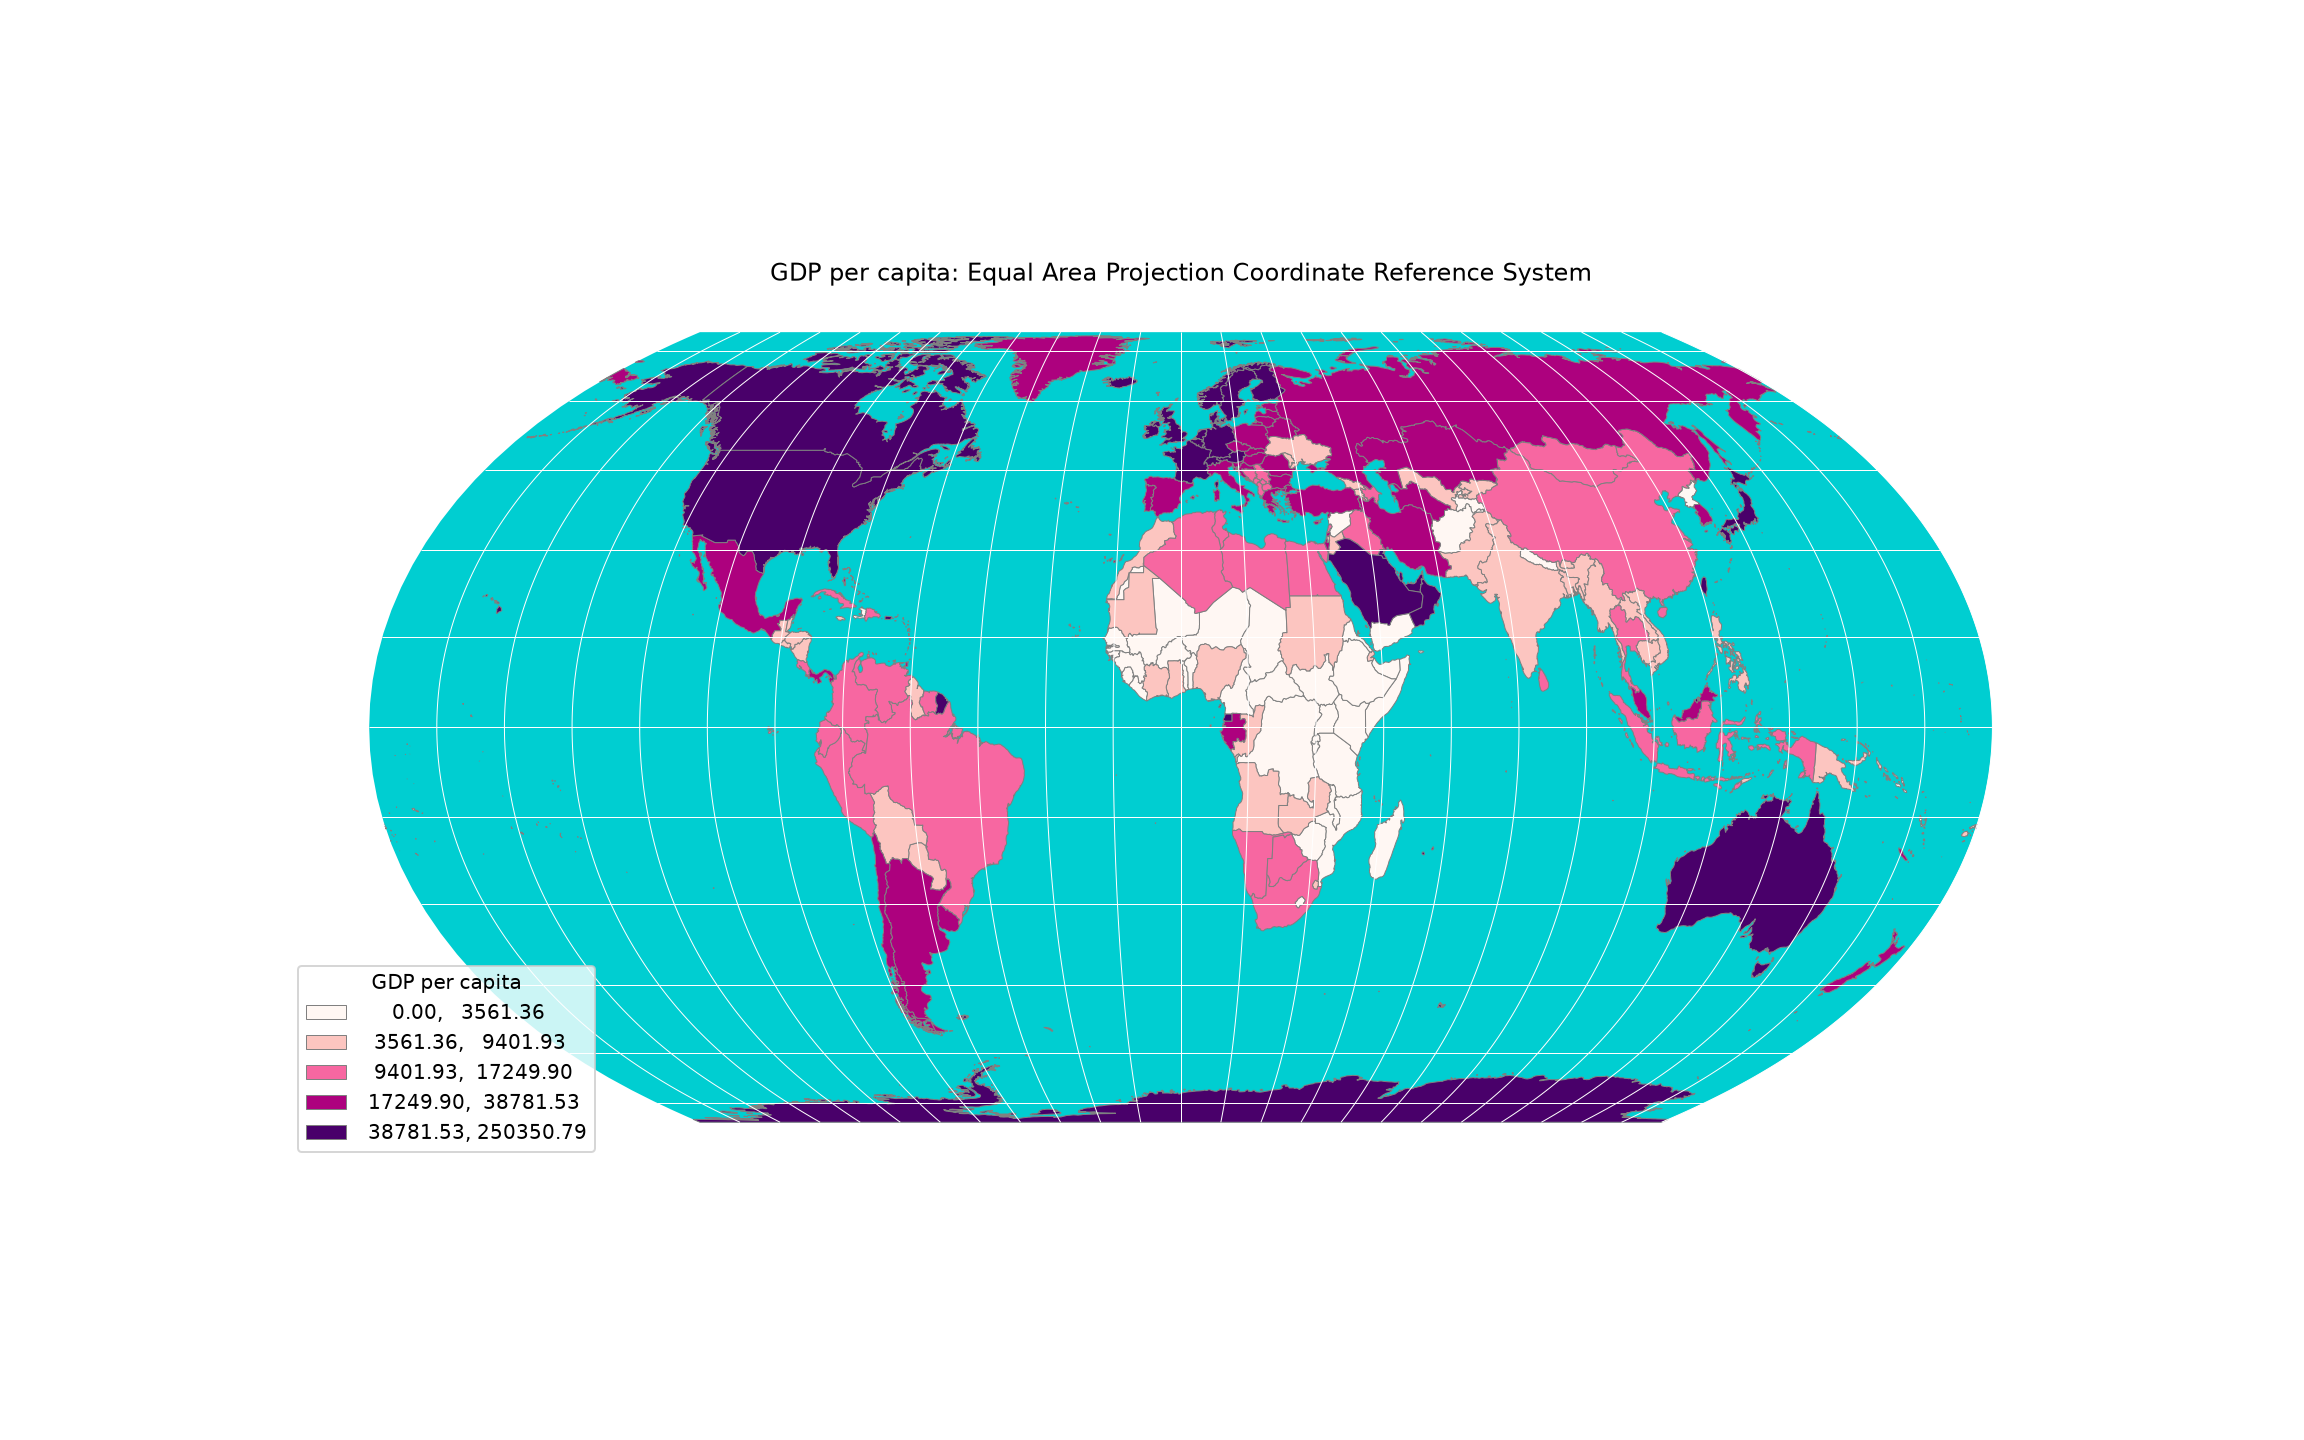
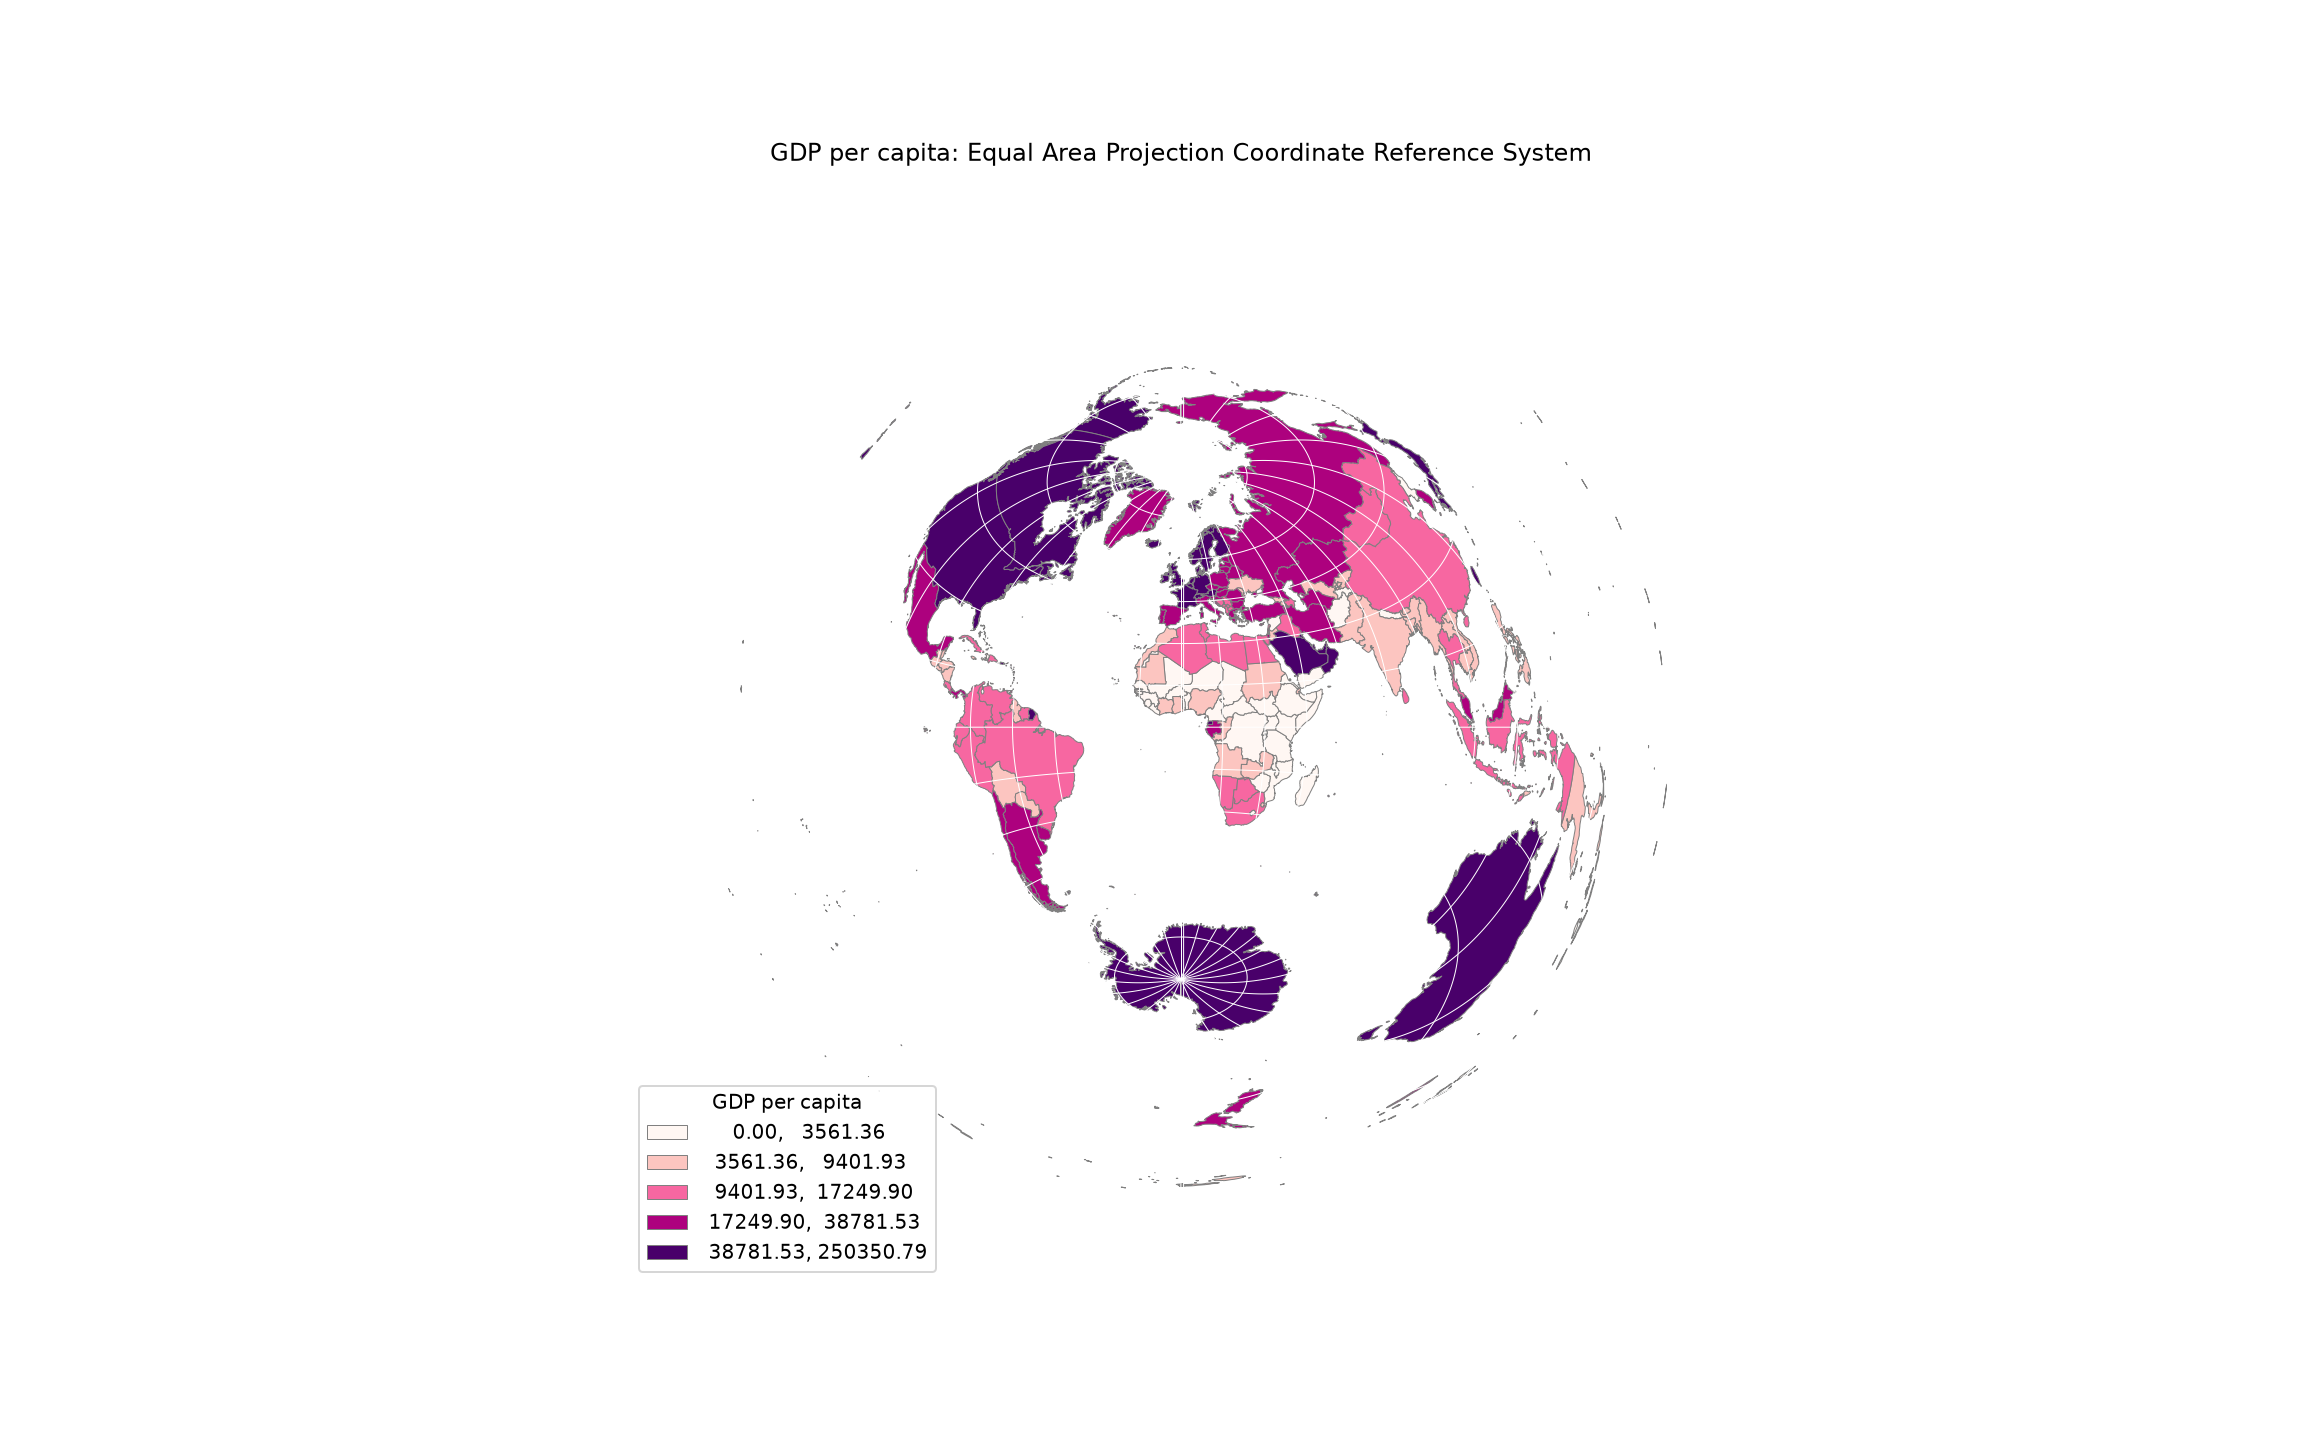
Changed to equidistant projection

diff --git a/week1/week1.py b/week1/week1.py
@@ -8,7 +8,7 @@ print(world.columns)
 world['gdp_per_capita'] = (world['GDP_MD_EST'] * 1000000) / world['POP_EST']
 print(world.head())
 from matplotlib.pyplot import subplots, savefig
-ea_proj=("+proj=eqearth +lon_0=0 +datum=WGS84 +units=m +no_defs")
+ea_proj=("+proj=aeqd +lon_0=0 +lat_0=0 +datum=WGS84 +units=m +no_defs")
 # reproject all three layers to equal earth
 world = world.to_crs(ea_proj)
 graticule = graticule.to_crs(ea_proj)
